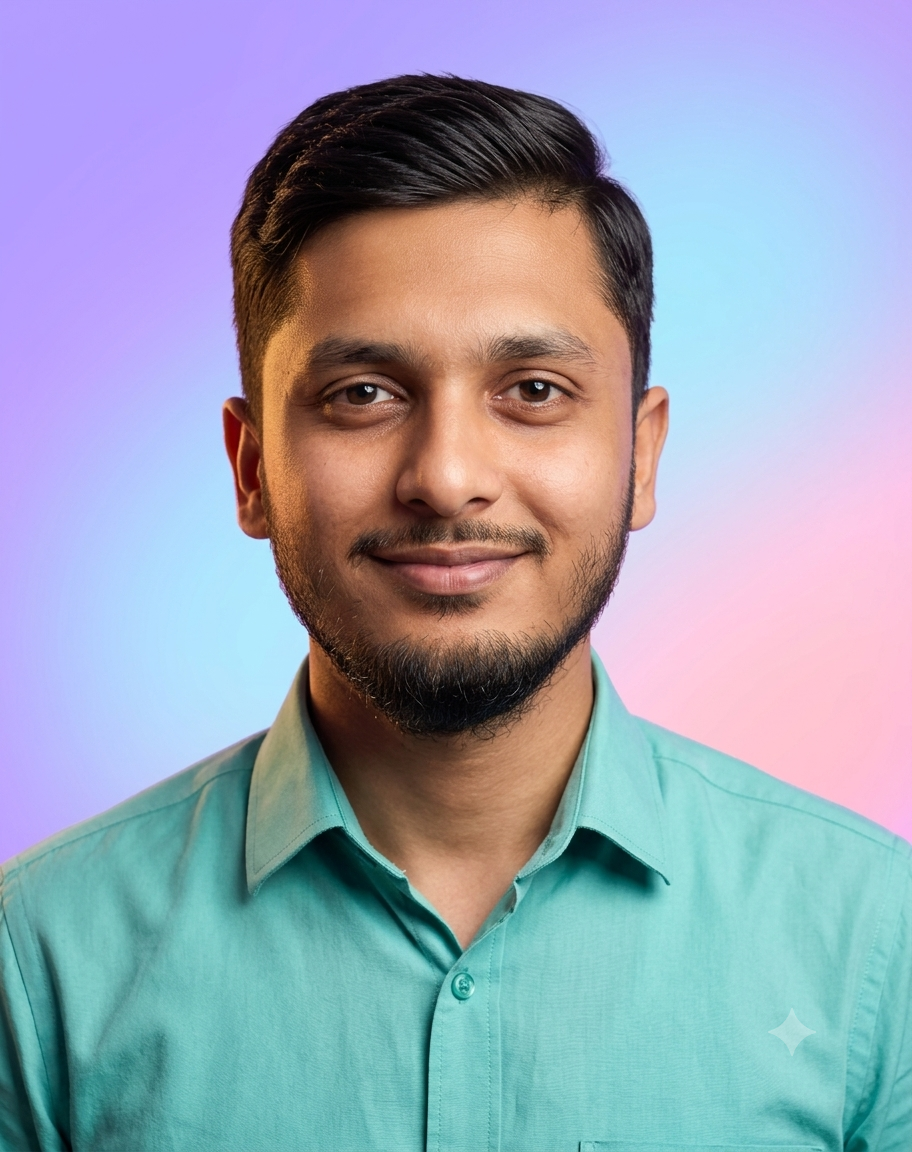
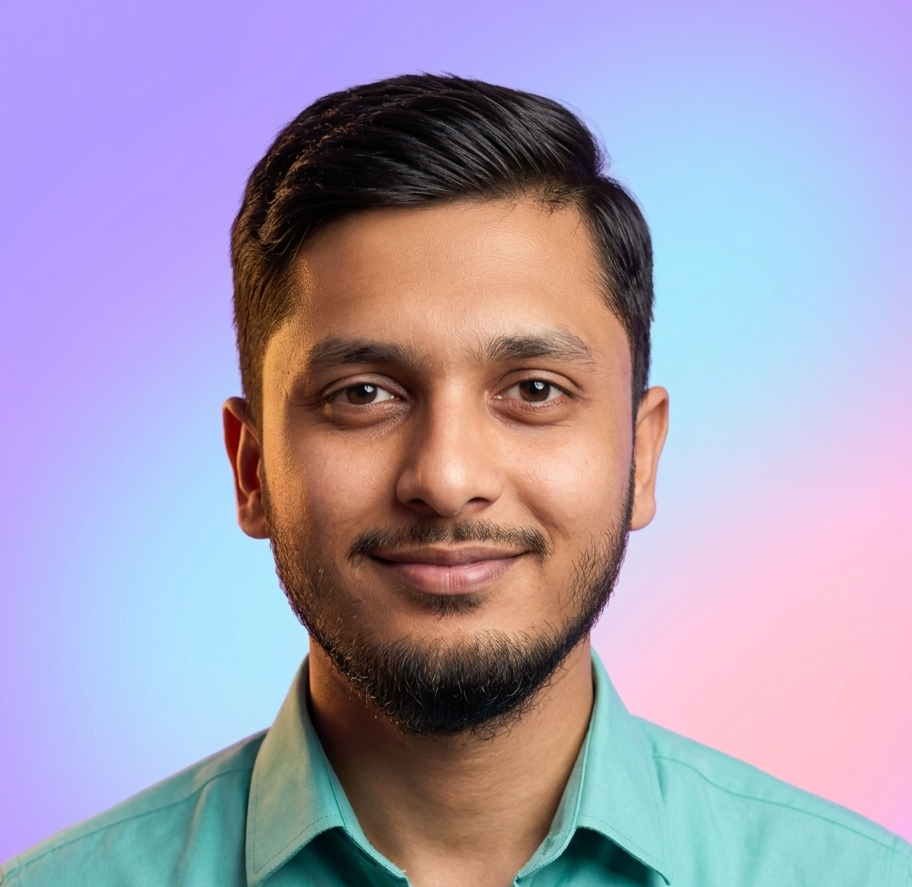
v1.4 deployed successfully

diff --git a/index.html b/index.html
@@ -15,6 +15,8 @@
     href="https://fonts.googleapis.com/css2?family=Space+Grotesk:wght@400;500;600;700&family=Inter:wght@300;400;500;600&family=JetBrains+Mono:wght@400;500&display=swap"
     rel="stylesheet" />
   <link rel="stylesheet" href="https://cdnjs.cloudflare.com/ajax/libs/font-awesome/6.7.2/css/all.min.css" />
+  
+  <link rel="icon" type="image/png" href="./images/favicon.png" />
 
   <!-- Tailwind -->
   <script src="https://cdn.tailwindcss.com"></script>